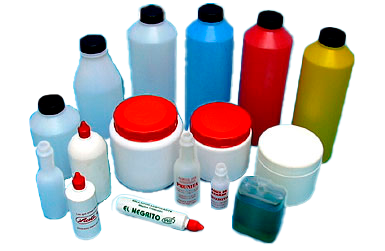
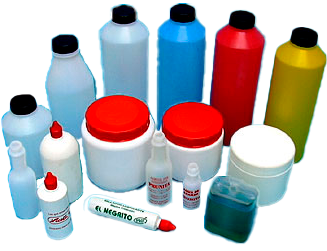
Correcciones visuales de servicios.

diff --git a/index.html b/index.html
@@ -47,7 +47,7 @@
             </div>
             <div class="contenedor_servicios">
                 <article class="servicios">
-                    <img src="/img/fotoindustrial.png" alt="" height="300px">
+                    <img src="img/fotoindustrial.png" alt="" height="300px">
                     <div class="desc_service">
                         <div>
                             <h3>Fabricación de productos pre-diseñados</h3>
@@ -65,7 +65,7 @@
                     </div>
                 </article>
                 <article class="servicios">
-                    <img src="/img/fotoindustrial.png"  alt="" height="300px">
+                    <img src="img/fotoindustrial.png"  alt="" height="300px">
                     <div class="desc_service">
                         <div>
                             <h3>Desarrollo y Personalización de Productos</h3>
@@ -82,7 +82,7 @@
                     </div>
                 </article>
                 <article class="servicios">
-                    <img src="/img/fotoindustrial.png"  alt="" height="300px">
+                    <img src="img/fotoindustrial.png"  alt="" height="300px">
                     <div class="desc_service">
                         <div>
                             <h3>Impresión y Acabado de Envases</h3>

diff --git a/css/main.css b/css/main.css
@@ -74,7 +74,7 @@ iframe {
 
 img {
     max-width: 100%;
-    object-fit: cover;
+    object-fit: contain;
 }
 strong{
     color: var(--colorStrongLinks);
@@ -186,7 +186,7 @@ section {
 
         & .desc_service {
             display: flex;
-            height: 100%;
+            height: 50%;
             flex-direction: column;
             justify-content: space-between;
         }
